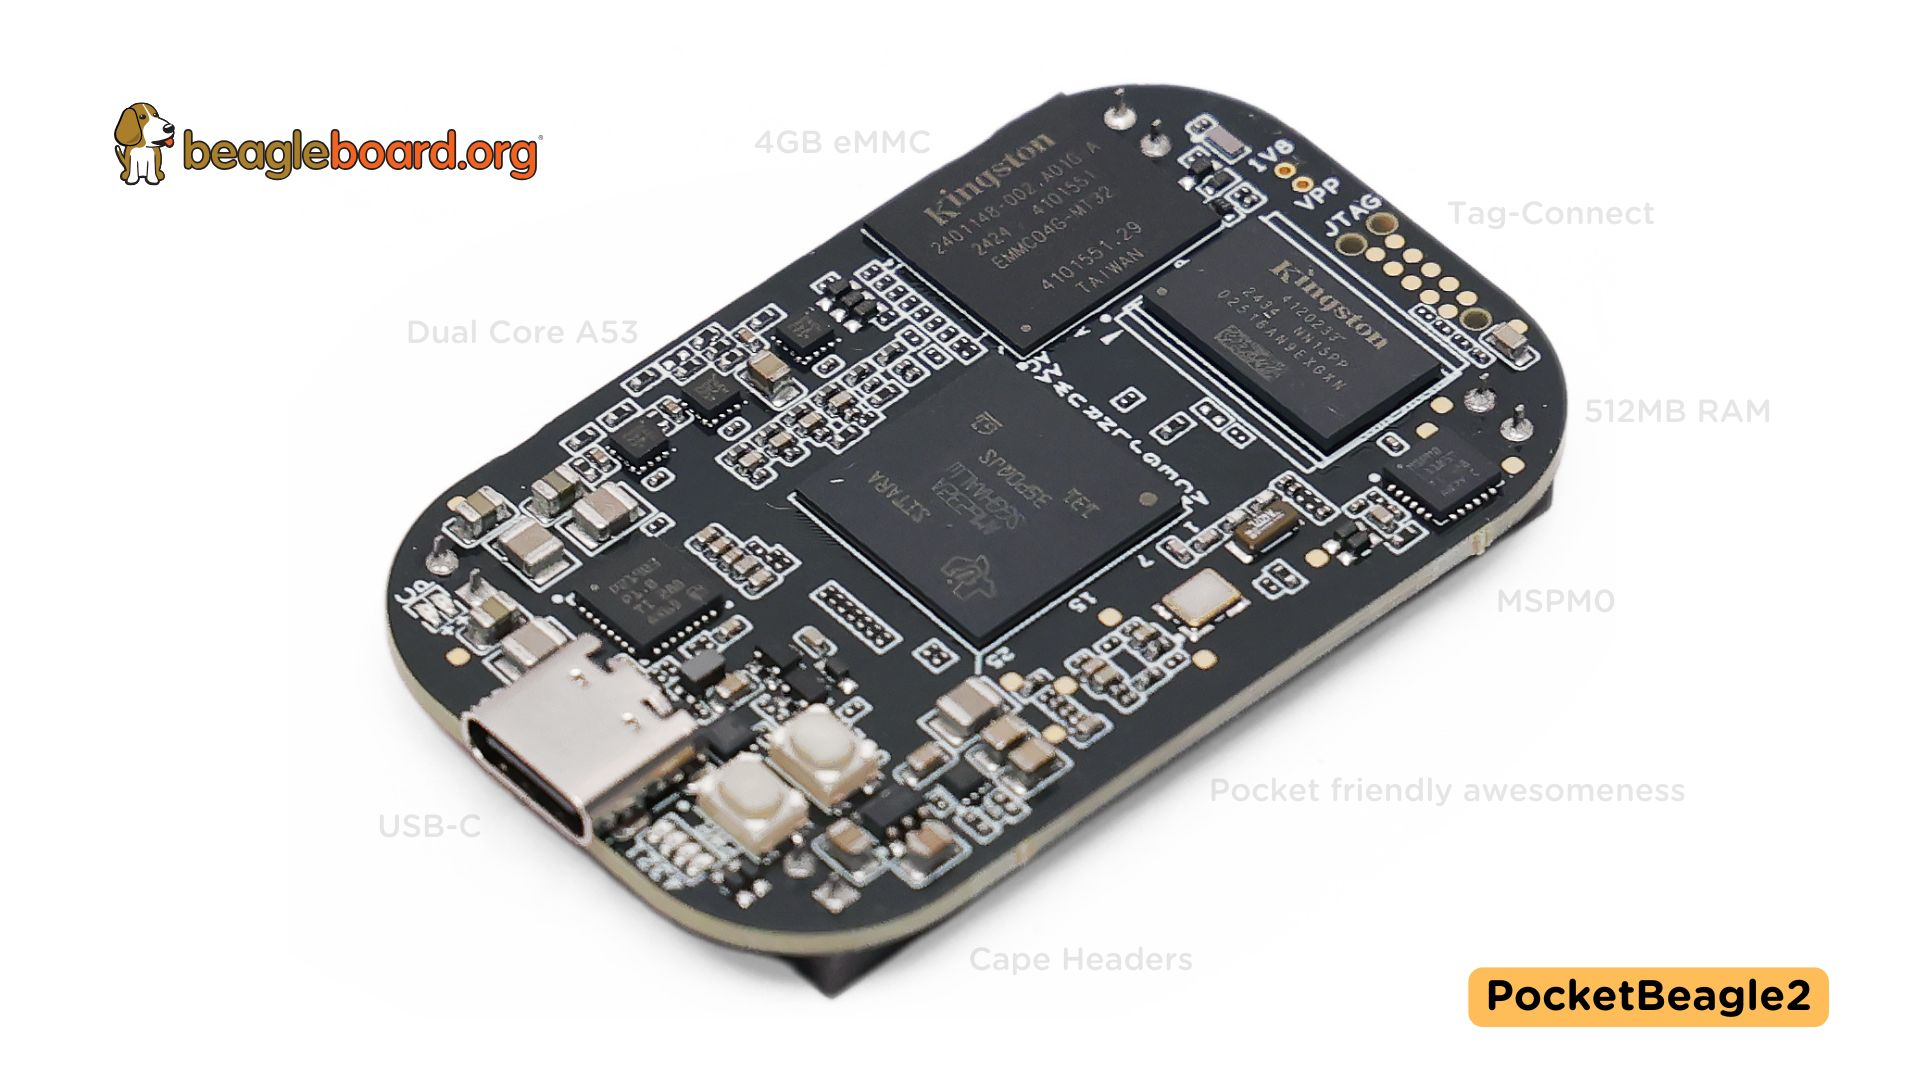
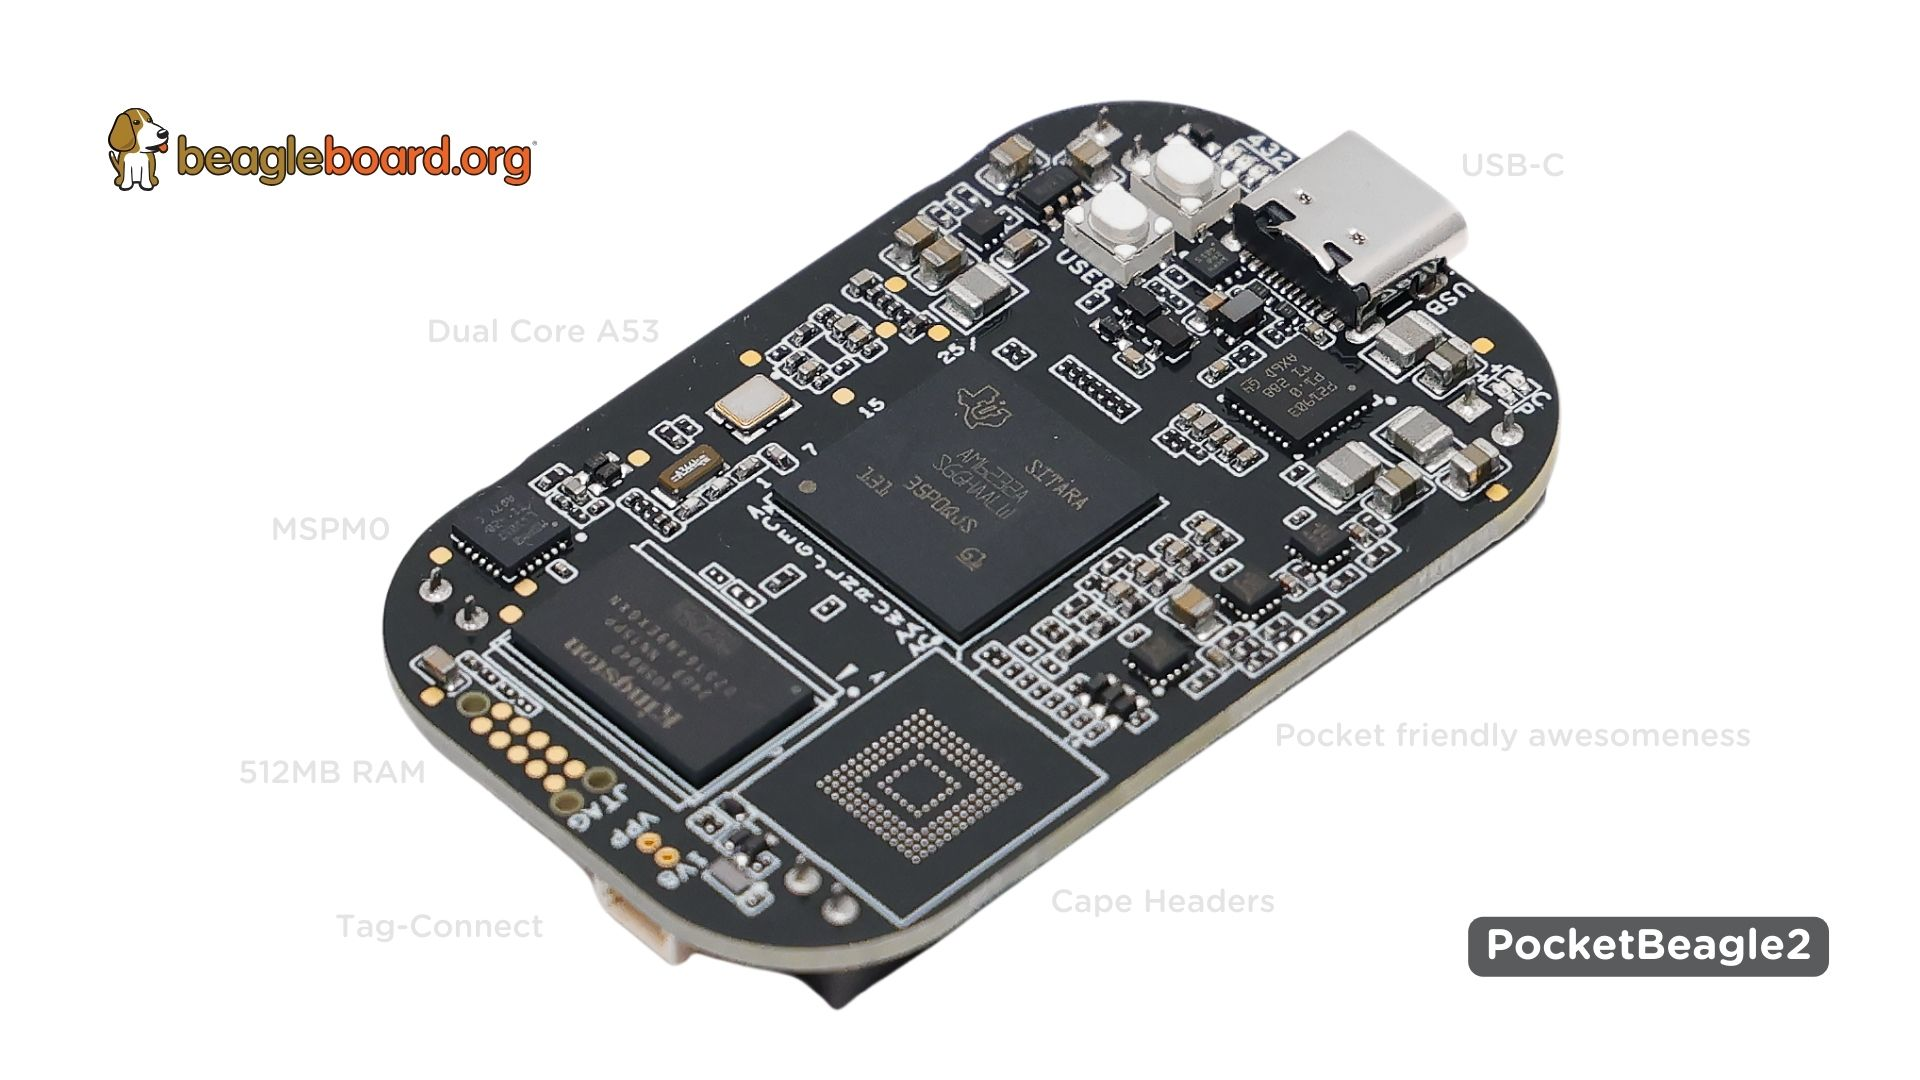
Update board grphics and readme

diff --git a/README.md b/README.md
@@ -1,7 +1,7 @@
 # PocketBeagle 2
 
 PocketBeagle2 is based on [Texas Instrments AM6232 SoC](https://www.ti.com/product/AM623), it's dual A53 cores can 
-provides more than double the performance of the classic PocketBeagle. The new design comes with pre-soldered headers, 
+provides better performance than the classic PocketBeagle. The new design comes with pre-soldered headers, 
 3-pin JST-SH 1.00mm uart debug port, USB-C port, MSPM0L1105, 512MB RAM, LiPo Battery charger, and optional eMMC storage.
 
 ![](images/hero.jpg)
@@ -10,7 +10,7 @@ provides more than double the performance of the classic PocketBeagle. The new d
 
 | Front           |  Back |
 | :-------------------------: | :-------------------------: |
-| ![](images/front.png)  | ![](images/back.png)| 
+| ![](images/front.jpg)  | ![](images/back.jpg)| 
 
 ## Comparison table
 
@@ -18,7 +18,7 @@ provides more than double the performance of the classic PocketBeagle. The new d
 | :---------------: | :-----------------: | :------------------------: |
 | SoC               | AM6232              | AM3358                     |
 | Arm CPU           | Cortex-A53 (64-bit) | Cortex-A8 (32-bit)         |
-| Arm cores         | 2 x 1.4GHz          | 1 x 1GHz                   |
+| Arm cores         | 2 x 1 GHz           | 1 x 1GHz                   |
 | RAM               | 512MB DDR4          | 512MB DDR3                 |
 
 ## PocketBeagle2 Features and Specification
@@ -26,8 +26,7 @@ provides more than double the performance of the classic PocketBeagle. The new d
 |                         | Feature                                                                                                                                 |
 | :---------------------: | :-------------------------------------------------------------------------------------------------------------------------------------: |
 | **Processor**           | [Texas Instrments AM6232 SoC](https://www.ti.com/product/AM623)                                                                         |
-| **SDRAM Memory**        | LPDDR4 3200MHz (512MB) Kingston D2516AN9EXGXN-TU                                                                                        |
-| **Onboard Flash**       | eMMC (2GB) Kingston EMMC04G-MT32-01G10                                                                                                  |
+| **SDRAM Memory**        | 512MB DDR4 (Kingston D2516AN9EXGXN-TU)                                                                                                  |
 | **PMIC**                | TPS6521903                                                                                                                              |
 | **Debug Support**       | 3 pin 3.3V JST-SH 1.00mm UART debug port (RPI debug probe compatible)                                                                   |
 |                         | 10-pin JTAG TAG-CONNECT footprint                                                                                                       |
